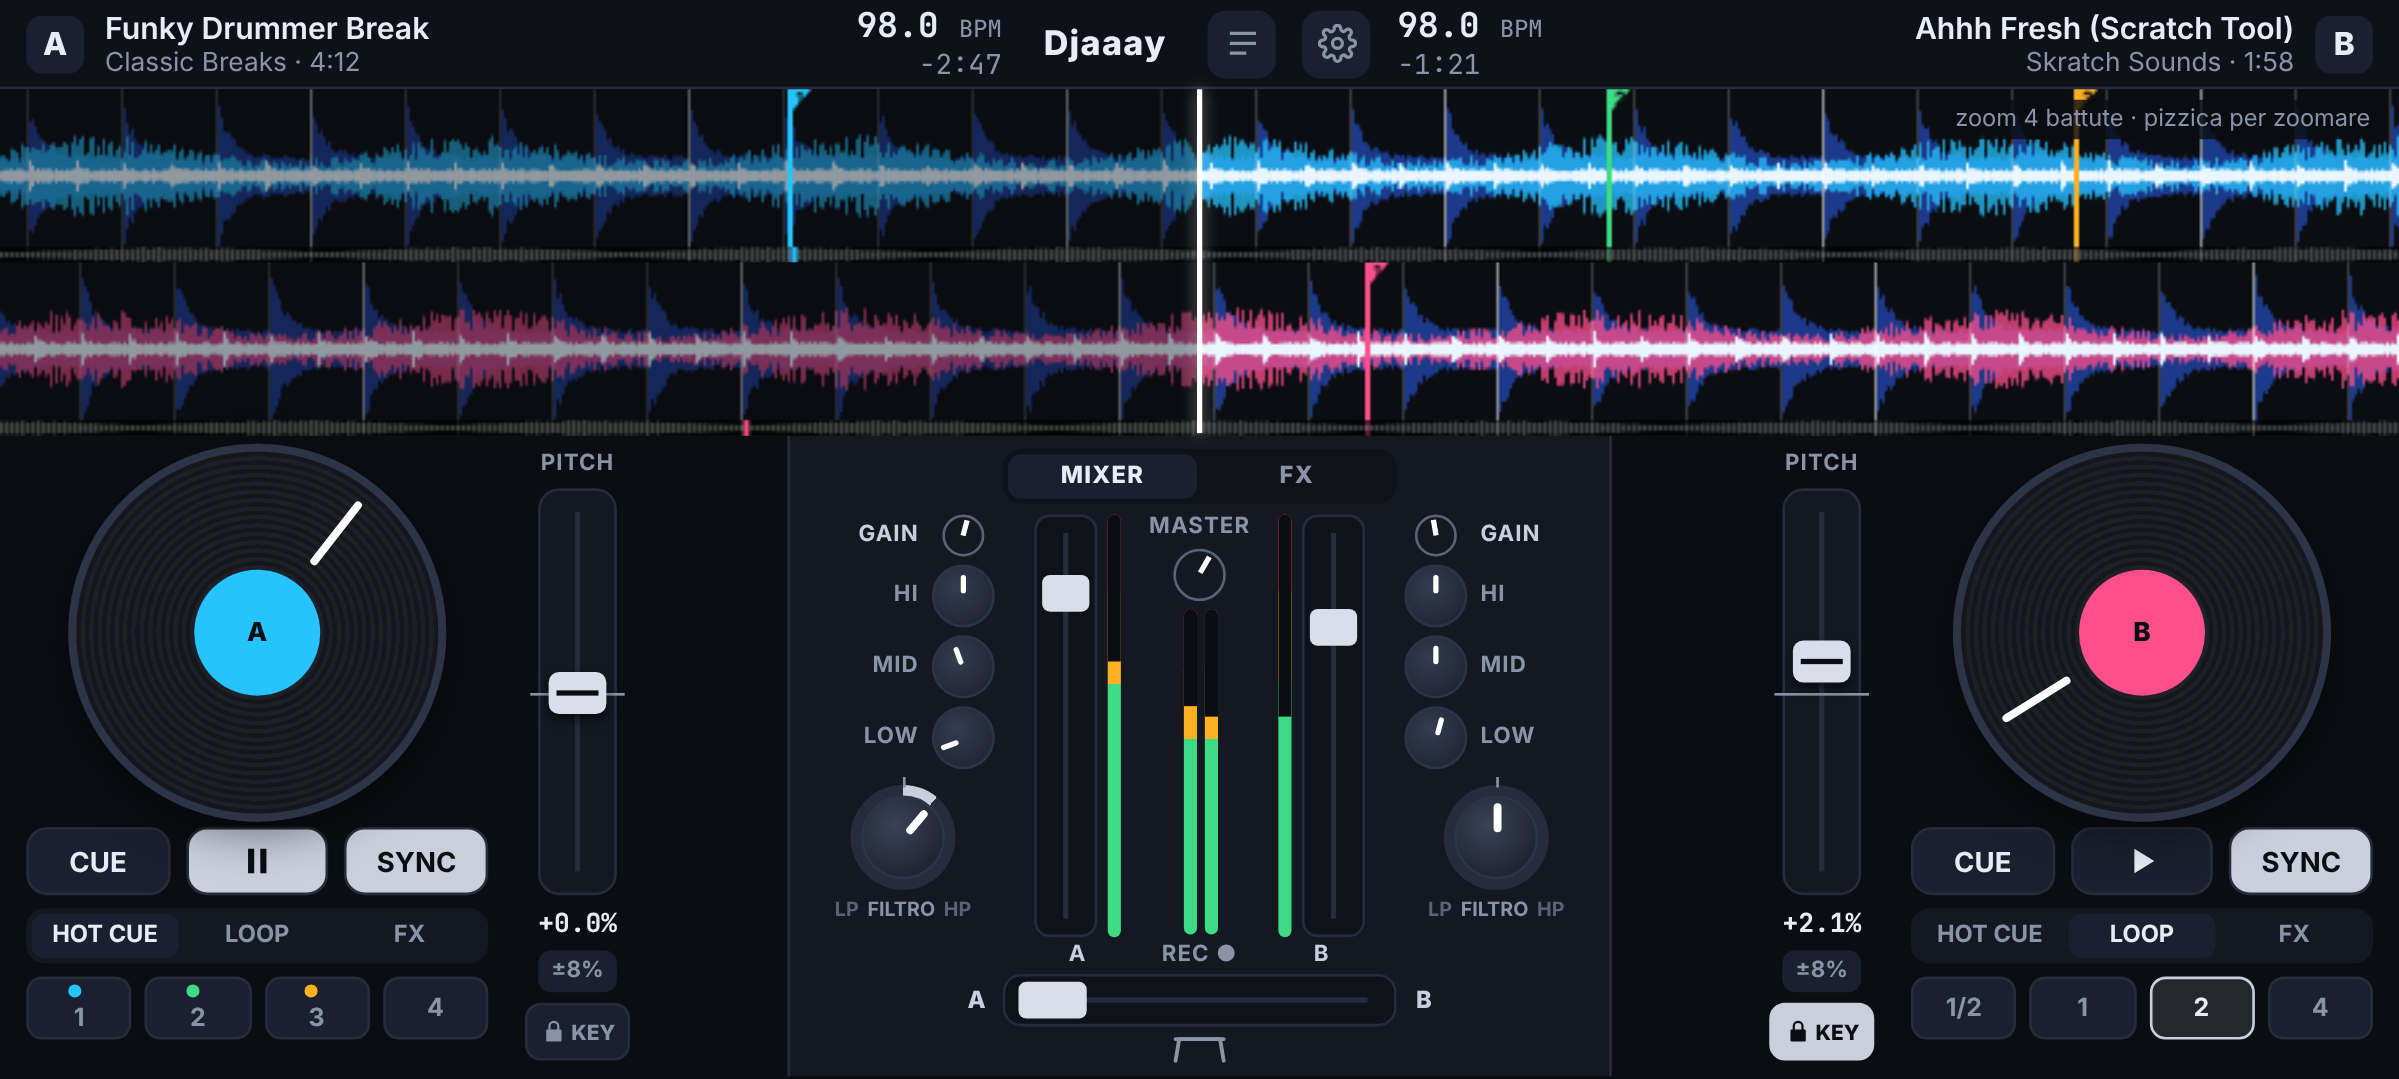
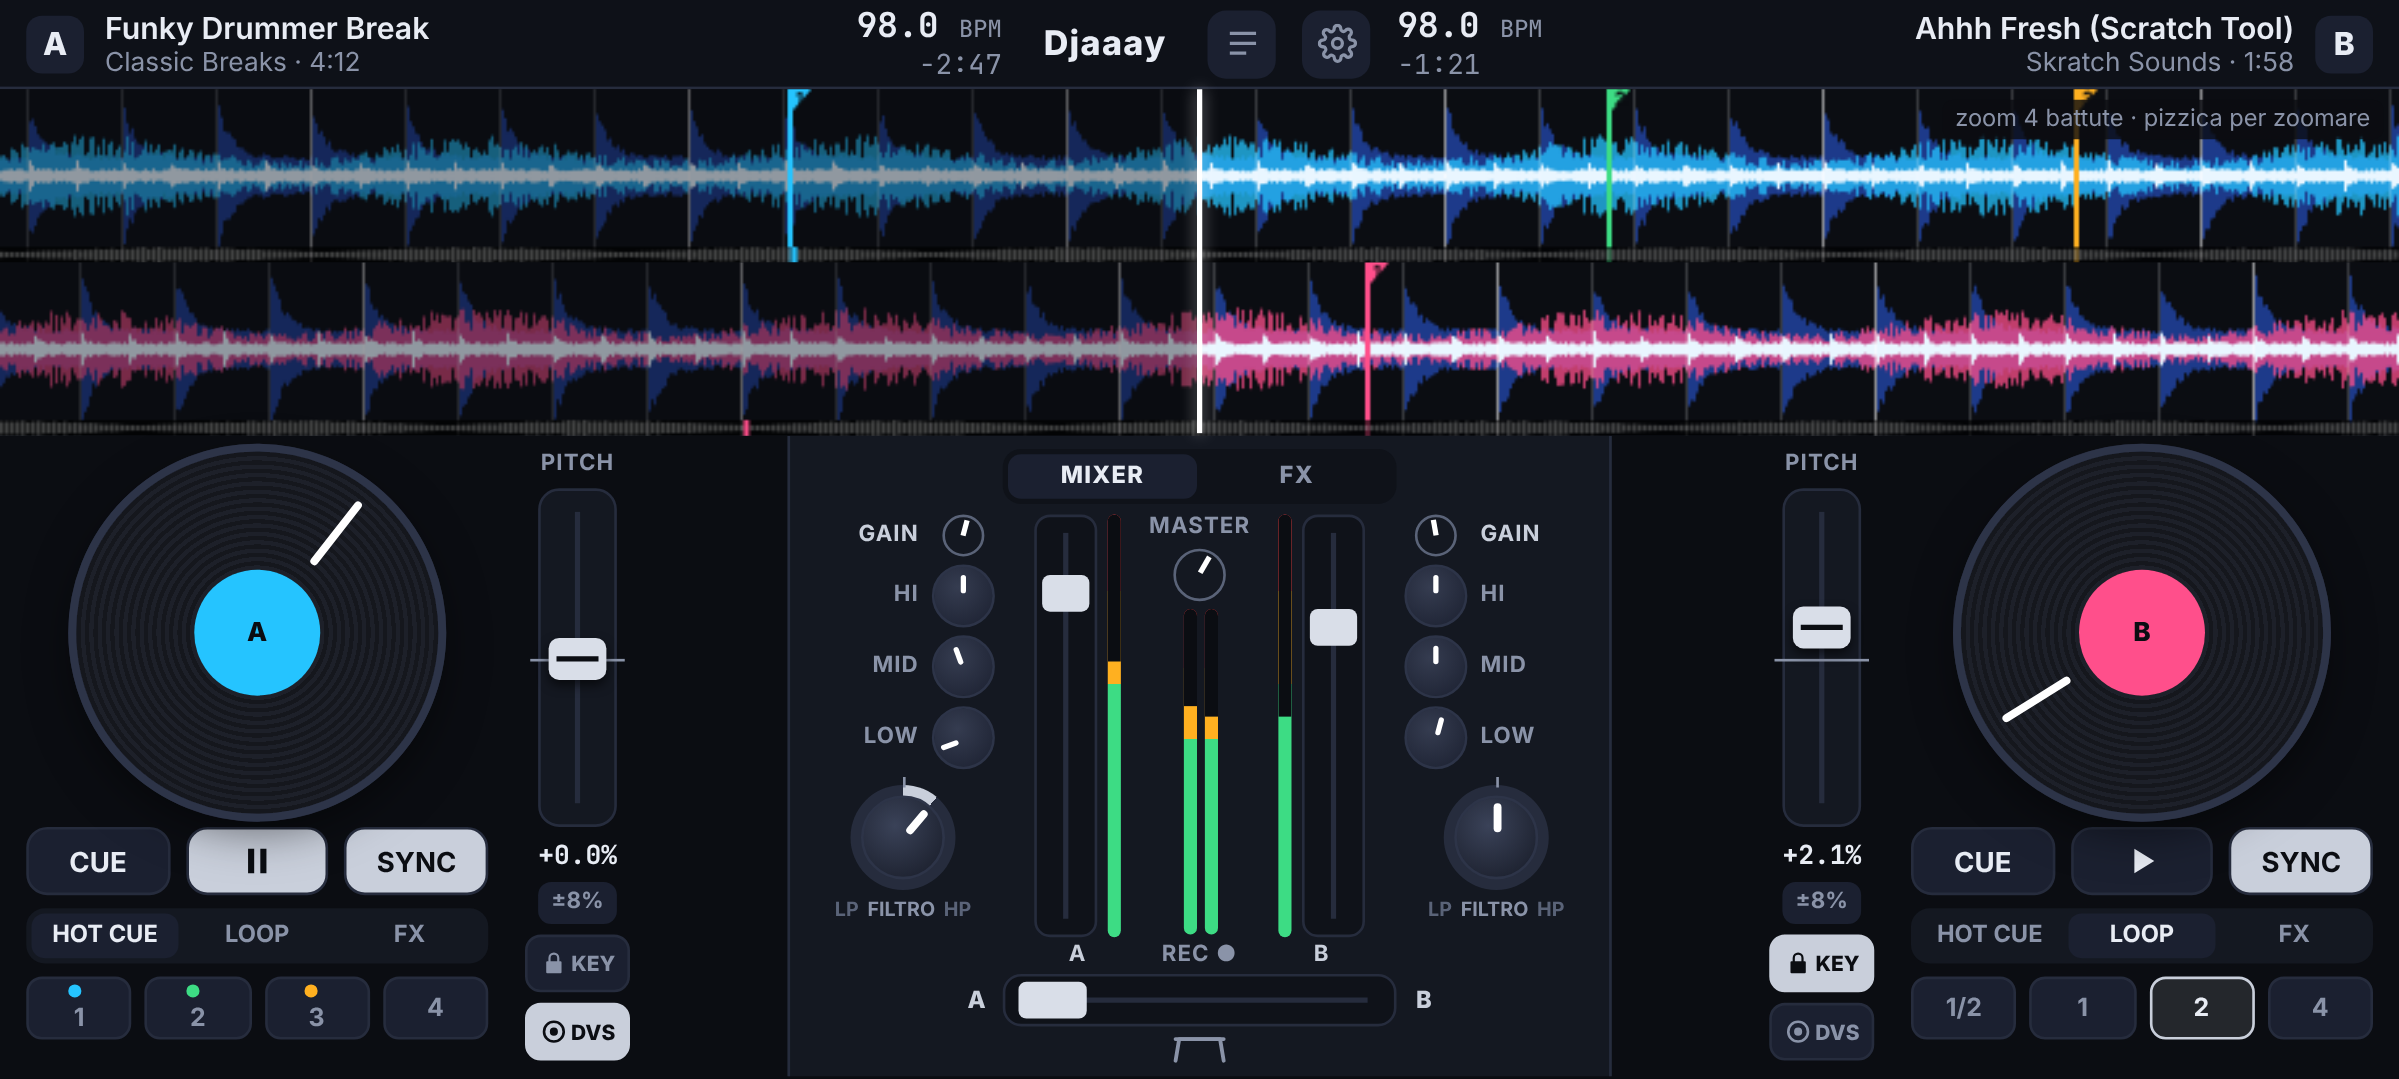
CI: usa NDK e CMake già installati nel runner; tasto DVS nelle bozze
Claude-Session: https://claude.ai/code/session_01Q6837TbCDCCjM1wxVviTqv

diff --git a/design/bozze.html b/design/bozze.html
@@ -223,7 +223,7 @@ html,body{width:914px;height:411px;overflow:hidden;background:var(--bg);color:va
         <div class="tabs"><div class="tab on">HOT CUE</div><div class="tab">LOOP</div><div class="tab">FX</div></div>
         <div class="pads"><div class="pad"><span style="display:inline-block;width:5px;height:5px;border-radius:50%;background:#25c4ff;margin-right:4px;vertical-align:1px"></span>1</div><div class="pad"><span style="display:inline-block;width:5px;height:5px;border-radius:50%;background:#3ddc84;margin-right:4px;vertical-align:1px"></span>2</div><div class="pad"><span style="display:inline-block;width:5px;height:5px;border-radius:50%;background:#ffb020;margin-right:4px;vertical-align:1px"></span>3</div><div class="pad">4</div></div>
       </div>
-      <div class="pitch"><div class="lbl">PITCH</div><div class="vslider"><div class="mid"></div><div class="cap" style="top:calc(50% - 8px)"></div></div><div class="pv">+0.0%</div><div class="keylock">±8%</div><div class="klock"><svg viewBox="0 0 24 24" fill="currentColor"><path d="M7 10V7a5 5 0 0 1 10 0v3h1a1 1 0 0 1 1 1v9a1 1 0 0 1-1 1H6a1 1 0 0 1-1-1v-9a1 1 0 0 1 1-1zm2 0h6V7a3 3 0 0 0-6 0z"/></svg>KEY</div></div>
+      <div class="pitch"><div class="lbl">PITCH</div><div class="vslider"><div class="mid"></div><div class="cap" style="top:calc(50% - 8px)"></div></div><div class="pv">+0.0%</div><div class="keylock">±8%</div><div class="klock"><svg viewBox="0 0 24 24" fill="currentColor"><path d="M7 10V7a5 5 0 0 1 10 0v3h1a1 1 0 0 1 1 1v9a1 1 0 0 1-1 1H6a1 1 0 0 1-1-1v-9a1 1 0 0 1 1-1zm2 0h6V7a3 3 0 0 0-6 0z"/></svg>KEY</div><div class="klock on" style="background:#c9cfdb;border-color:#c9cfdb"><svg viewBox="0 0 24 24" fill="none" stroke="currentColor" stroke-width="2.4"><circle cx="12" cy="12" r="9"/><circle cx="12" cy="12" r="2.5" fill="currentColor"/></svg>DVS</div></div>
     </div>
 
     <div class="mixer">
@@ -264,7 +264,7 @@ html,body{width:914px;height:411px;overflow:hidden;background:var(--bg);color:va
         <div class="tabs"><div class="tab">HOT CUE</div><div class="tab on">LOOP</div><div class="tab">FX</div></div>
         <div class="pads"><div class="pad">1/2</div><div class="pad">1</div><div class="pad" style="background:#c9cfdb22;color:var(--txt);border-color:#c9cfdb">2</div><div class="pad">4</div></div>
       </div>
-      <div class="pitch"><div class="lbl">PITCH</div><div class="vslider"><div class="mid"></div><div class="cap" style="top:calc(50% - 20px)"></div></div><div class="pv">+2.1%</div><div class="keylock">±8%</div><div class="klock on" style="background:var(--b);border-color:var(--b)"><svg viewBox="0 0 24 24" fill="currentColor"><path d="M7 10V7a5 5 0 0 1 10 0v3h1a1 1 0 0 1 1 1v9a1 1 0 0 1-1 1H6a1 1 0 0 1-1-1v-9a1 1 0 0 1 1-1zm2 0h6V7a3 3 0 0 0-6 0z"/></svg>KEY</div></div>
+      <div class="pitch"><div class="lbl">PITCH</div><div class="vslider"><div class="mid"></div><div class="cap" style="top:calc(50% - 20px)"></div></div><div class="pv">+2.1%</div><div class="keylock">±8%</div><div class="klock on" style="background:var(--b);border-color:var(--b)"><svg viewBox="0 0 24 24" fill="currentColor"><path d="M7 10V7a5 5 0 0 1 10 0v3h1a1 1 0 0 1 1 1v9a1 1 0 0 1-1 1H6a1 1 0 0 1-1-1v-9a1 1 0 0 1 1-1zm2 0h6V7a3 3 0 0 0-6 0z"/></svg>KEY</div><div class="klock"><svg viewBox="0 0 24 24" fill="none" stroke="currentColor" stroke-width="2.4"><circle cx="12" cy="12" r="9"/><circle cx="12" cy="12" r="2.5" fill="currentColor"/></svg>DVS</div></div>
     </div>
   </div>
 </div>
@@ -325,7 +325,7 @@ html,body{width:914px;height:411px;overflow:hidden;background:var(--bg);color:va
         <div class="opt"><div class="n">Assegna comandi<small>tocca un comando, muovi la manopola</small></div><div style="flex:1"></div><span class="chip" style="color:var(--txt);border-color:var(--a)">LEARN</span></div>
         <h3>AUDIO</h3>
         <div class="opt"><div class="n">Uscita</div><div style="flex:1"></div><span class="m" style="color:var(--dim)">Altoparlante / cuffie</span></div>
-        <div class="opt"><div class="n">Pre-ascolto in cuffia<small>serve una scheda audio USB a 4 uscite</small></div><div style="flex:1"></div><span style="color:var(--dim);font-size:10px">non rilevata</span></div>
+        <div class="opt"><div class="n">Timecode (DVS)<small>vinile Serato · ingresso della scheda USB</small></div><div style="flex:1"></div><span style="color:var(--dim);font-size:10px">non rilevata</span></div>
       </div>
     </div>
   </div>

diff --git a/engine/Filtri.h b/engine/Filtri.h
@@ -1,0 +1,88 @@
+// Filtri usati dal mixer e dall'analisi. Tutti senza allocazioni.
+#pragma once
+
+#include <algorithm>
+#include <cmath>
+
+namespace djaaay {
+
+constexpr float kPi = 3.14159265358979f;
+
+// Filtro a variabili di stato "TPT" (Simper): stabile anche se la frequenza cambia mentre suona.
+class FiltroSVF {
+public:
+    void imposta(float frequenza, float q, float sampleRate) {
+        frequenza = std::clamp(frequenza, 10.0f, sampleRate * 0.49f);
+        g_ = std::tan(kPi * frequenza / sampleRate);
+        k_ = 1.0f / q;
+        a1_ = 1.0f / (1.0f + g_ * (g_ + k_));
+        a2_ = g_ * a1_;
+        a3_ = g_ * a2_;
+    }
+    void azzera() { ic1_ = ic2_ = 0.0f; }
+
+    // Restituisce passa-basso e passa-alto dello stesso campione.
+    void processa(float x, float& lp, float& hp) {
+        const float v3 = x - ic2_;
+        const float v1 = a1_ * ic1_ + a2_ * v3;
+        const float v2 = ic2_ + a2_ * ic1_ + a3_ * v3;
+        ic1_ = 2.0f * v1 - ic1_;
+        ic2_ = 2.0f * v2 - ic2_;
+        lp = v2;
+        hp = x - k_ * v1 - v2;
+    }
+
+private:
+    float g_ = 0.0f, k_ = 1.4142f, a1_ = 1.0f, a2_ = 0.0f, a3_ = 0.0f;
+    float ic1_ = 0.0f, ic2_ = 0.0f;
+};
+
+// Linkwitz-Riley del 4° ordine (due Butterworth in cascata): separa le bande dell'EQ.
+class CrossoverLR4 {
+public:
+    void imposta(float frequenza, float sampleRate) {
+        for (auto* f : {&lp1_, &lp2_, &hp1_, &hp2_}) f->imposta(frequenza, 0.70710678f, sampleRate);
+    }
+    void azzera() {
+        for (auto* f : {&lp1_, &lp2_, &hp1_, &hp2_}) f->azzera();
+    }
+    float bassi(float x) {
+        float lp, hp;
+        lp1_.processa(x, lp, hp);
+        float lp2, hp2;
+        lp2_.processa(lp, lp2, hp2);
+        return lp2;
+    }
+    float alti(float x) {
+        float lp, hp;
+        hp1_.processa(x, lp, hp);
+        float lp2, hp2;
+        hp2_.processa(hp, lp2, hp2);
+        return hp2;
+    }
+
+private:
+    FiltroSVF lp1_, lp2_, hp1_, hp2_;
+};
+
+// Toglie la componente continua (es. disco fermo su un campione diverso da zero).
+class BloccaDC {
+public:
+    float processa(float x) {
+        const float y = x - x1_ + 0.9995f * y1_;
+        x1_ = x;
+        y1_ = y;
+        return y;
+    }
+
+private:
+    float x1_ = 0.0f, y1_ = 0.0f;
+};
+
+// Coefficiente di uno smoothing esponenziale con costante di tempo `secondi`.
+inline float coeffSmooth(float secondi, float sampleRate) {
+    if (secondi <= 0.0f) return 0.0f;
+    return std::exp(-1.0f / (secondi * sampleRate));
+}
+
+}  // namespace djaaay

diff --git a/engine/Coda.h b/engine/Coda.h
@@ -1,0 +1,43 @@
+// Coda di messaggi verso il thread audio: chi scrive (interfaccia, MIDI) prende un mutex tra sé,
+// il thread audio legge senza lock. Capacità fissa, nessuna allocazione dopo la costruzione.
+#pragma once
+
+#include <array>
+#include <atomic>
+#include <cstddef>
+#include <mutex>
+
+namespace djaaay {
+
+template <typename T, size_t N>
+class Coda {
+    static_assert((N & (N - 1)) == 0, "N deve essere una potenza di 2");
+
+public:
+    // Qualsiasi thread tranne quello audio. Falso se la coda è piena (il messaggio si perde).
+    bool invia(const T& v) {
+        std::lock_guard<std::mutex> lock(scrittori_);
+        const size_t t = coda_.load(std::memory_order_relaxed);
+        if (t - testa_.load(std::memory_order_acquire) >= N) return false;
+        buf_[t & (N - 1)] = v;
+        coda_.store(t + 1, std::memory_order_release);
+        return true;
+    }
+
+    // Solo il thread che legge (audio).
+    bool ricevi(T& v) {
+        const size_t h = testa_.load(std::memory_order_relaxed);
+        if (h == coda_.load(std::memory_order_acquire)) return false;
+        v = buf_[h & (N - 1)];
+        testa_.store(h + 1, std::memory_order_release);
+        return true;
+    }
+
+private:
+    std::array<T, N> buf_{};
+    std::atomic<size_t> testa_{0};
+    std::atomic<size_t> coda_{0};
+    std::mutex scrittori_;
+};
+
+}  // namespace djaaay

diff --git a/engine/Traccia.h b/engine/Traccia.h
@@ -1,0 +1,35 @@
+// Un brano decodificato in memoria: PCM 16 bit stereo interleaved, alla frequenza del file.
+// Si costruisce fuori dal thread audio e poi non cambia più (il thread audio la legge e basta).
+#pragma once
+
+#include <cstdint>
+#include <vector>
+
+namespace djaaay {
+
+struct Traccia {
+    std::vector<int16_t> pcm;  // L R L R …
+    double sampleRate = 44100.0;
+
+    int64_t frame() const { return static_cast<int64_t>(pcm.size() / 2); }
+    double secondi() const { return static_cast<double>(frame()) / sampleRate; }
+
+    // Campione (−1…1) con silenzio fuori dai bordi: si può scratchare anche prima dell'inizio.
+    float campione(int64_t i, int canale) const {
+        if (i < 0 || i >= frame()) return 0.0f;
+        return static_cast<float>(pcm[static_cast<size_t>(i) * 2 + canale]) * (1.0f / 32768.0f);
+    }
+
+    // Aggiunge frame da un buffer PCM 16 bit con `canali` canali (1 = mono, >2 = si tengono i primi due).
+    void aggiungi(const int16_t* dati, int64_t frame, int canali) {
+        pcm.reserve(pcm.size() + static_cast<size_t>(frame) * 2);
+        for (int64_t i = 0; i < frame; ++i) {
+            const int16_t l = dati[i * canali];
+            const int16_t r = canali > 1 ? dati[i * canali + 1] : l;
+            pcm.push_back(l);
+            pcm.push_back(r);
+        }
+    }
+};
+
+}  // namespace djaaay

diff --git a/CLAUDE.md b/CLAUDE.md
@@ -28,7 +28,9 @@ Niente streaming (Spotify ecc.: impossibile senza accordi commerciali).
 - **Waveform alte** (2 strisce, A sopra B), puntina fissa al centro, griglia battute, bandierine hot cue,
   panoramica traccia sotto; pinch = zoom, trascinare = scratch (disattivabile).
 - Deck: disco touch (scratch), CUE / Play / SYNC, pad con tab HOT CUE · LOOP · FX; pitch verticale con valore,
-  escursione (±8/16/50) e tasto **KEY** (keylock).
+  escursione (±8/16/50), tasto **KEY** (keylock) e tasto **DVS**.
+- **DVS per deck** (richiesta 27/10): un solo segnale timecode (un giradischi) può comandare il deck A, il B o tutti e due
+  insieme: ogni deck con DVS acceso segue il timecode, con DVS spento si usa normalmente (touch/MIDI). Scelta manuale.
 - Mixer (al centro, tab MIXER / FX): per canale GAIN (manopola piccola e sottile), HI/MID/LOW, FILTRO (manopola grande con
   arco: sinistra LP, destra HP, centro spento). **Volumi al centro** ai lati del MASTER (manopola + meter), REC.
 - **Crossfader corto**, lettere A/B ai lati, sotto SOLO il simbolo della curva (taglio ⊓, lineare ×, morbida) in grigio,
